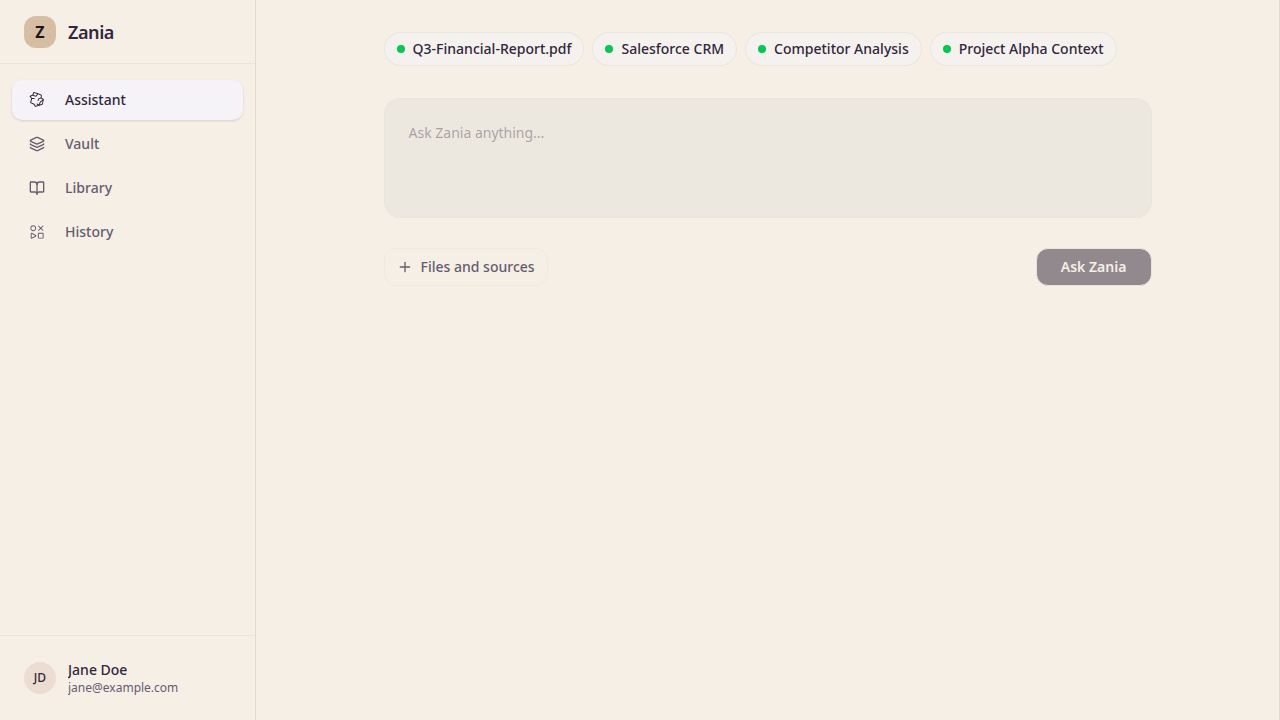
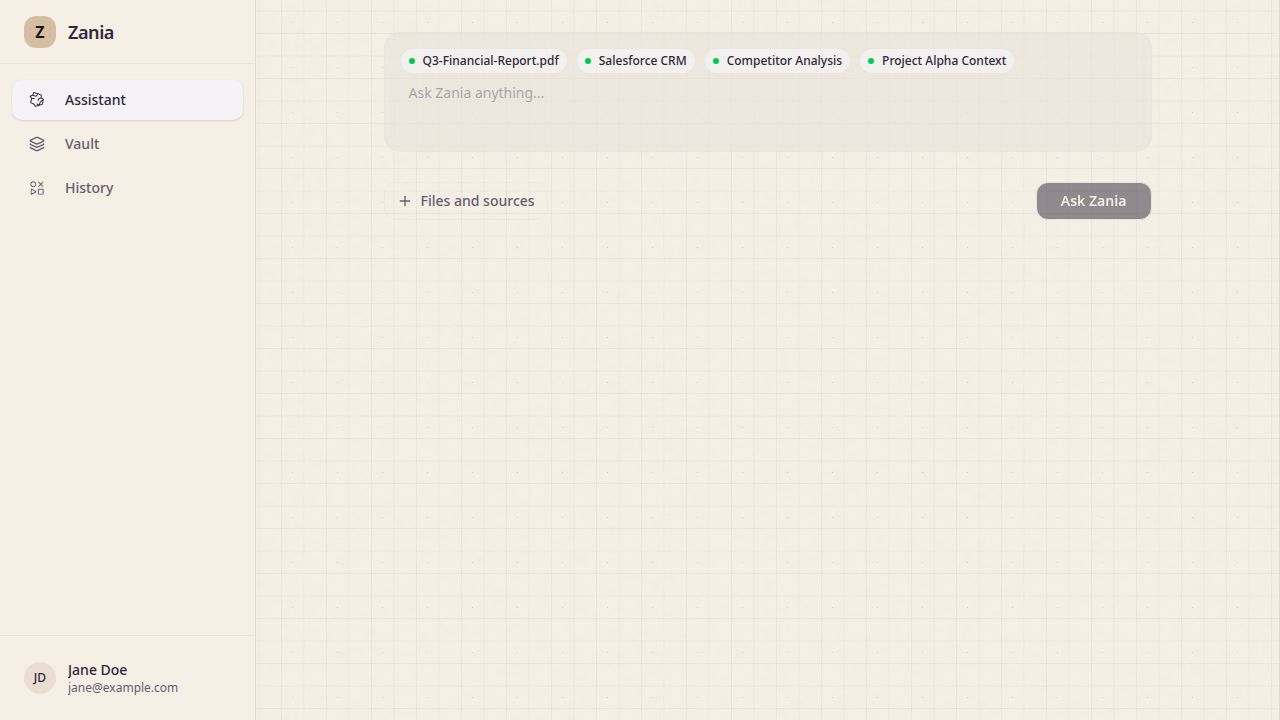
Update navigation and source display in the chat interface
Remove "Library" navigation item from sidebar and move active sources to the top-left corner of the textarea in AssistantHub.tsx.

Replit-Commit-Author: Agent
Replit-Commit-Session-Id: 5b161150-1cf0-4fc1-9128-a22fd3d76e81
Replit-Commit-Checkpoint-Type: full_checkpoint
Replit-Commit-Event-Id: 1c280b33-5646-4ca1-b334-14dd8229ea79
Replit-Commit-Screenshot-Url: https://storage.googleapis.com/screenshot-production-us-central1/c6d76fc1-605b-46ef-b0f8-529059969492/5b161150-1cf0-4fc1-9128-a22fd3d76e81/jJYnCfQ
Replit-Helium-Checkpoint-Created: true

diff --git a/client/src/components/chat/AssistantHub.tsx b/client/src/components/chat/AssistantHub.tsx
@@ -45,25 +45,6 @@ export function AssistantHub({ onStartChat }: { onStartChat: (query: string) => 
       className="flex flex-col items-center justify-center min-h-full w-full px-4 py-8"
     >
       <div className="w-full max-w-3xl space-y-8">
-        {/* Active Sources Pills */}
-        {activeSources.length > 0 && (
-          <motion.div
-            initial={{ opacity: 0, y: -10 }}
-            animate={{ opacity: 1, y: 0 }}
-            className="flex flex-wrap gap-2"
-          >
-            {activeSources.map((source) => (
-              <div
-                key={source.id}
-                className="flex items-center gap-2 px-3 py-1.5 rounded-full bg-secondary/50 border border-border/50 text-sm font-medium text-foreground"
-              >
-                <span className={cn("w-2 h-2 rounded-full", source.status === 'connected' ? "bg-green-500" : "bg-gray-400")} />
-                {source.name}
-              </div>
-            ))}
-          </motion.div>
-        )}
-
         {/* Main Input */}
         <motion.div
           initial={{ opacity: 0, y: 20 }}
@@ -71,13 +52,35 @@ export function AssistantHub({ onStartChat }: { onStartChat: (query: string) => 
           transition={{ delay: 0.1 }}
           className="space-y-6"
         >
-          <textarea
-            value={input}
-            onChange={(e) => setInput(e.target.value)}
-            onKeyDown={handleKeyDown}
-            placeholder="Ask Zania anything..."
-            className="w-full min-h-[120px] text-sm bg-muted/60 border border-border/30 rounded-xl p-6 focus:outline-none focus:ring-2 focus:ring-primary/50 resize-none font-sans text-foreground placeholder:text-sm placeholder:text-muted-foreground/50"
-          />
+          <div className="relative">
+            {/* Active Sources Pills - Top Left Corner */}
+            {activeSources.length > 0 && (
+              <motion.div
+                initial={{ opacity: 0, y: -10 }}
+                animate={{ opacity: 1, y: 0 }}
+                className="absolute top-4 left-4 flex flex-wrap gap-2 pointer-events-none z-10"
+              >
+                {activeSources.map((source) => (
+                  <div
+                    key={source.id}
+                    className="flex items-center gap-2 px-2 py-1 rounded-full bg-secondary/70 border border-border/50 text-xs font-medium text-foreground"
+                  >
+                    <span className={cn("w-1.5 h-1.5 rounded-full", source.status === 'connected' ? "bg-green-500" : "bg-gray-400")} />
+                    {source.name}
+                  </div>
+                ))}
+              </motion.div>
+            )}
+            
+            <textarea
+              value={input}
+              onChange={(e) => setInput(e.target.value)}
+              onKeyDown={handleKeyDown}
+              placeholder="Ask Zania anything..."
+              className="w-full min-h-[120px] text-sm bg-muted/60 border border-border/30 rounded-xl p-6 focus:outline-none focus:ring-2 focus:ring-primary/50 resize-none font-sans text-foreground placeholder:text-sm placeholder:text-muted-foreground/50"
+              style={{ paddingTop: activeSources.length > 0 ? '50px' : '24px' }}
+            />
+          </div>
 
           {/* Action Buttons */}
           <div className="flex flex-wrap gap-3 items-center">

diff --git a/client/src/pages/Home.tsx b/client/src/pages/Home.tsx
@@ -10,7 +10,7 @@ import { useStore } from '@/hooks/useStore';
 import Vault from '@/pages/Vault';
 import HistoryPage from '@/pages/History';
 import { Button } from '@/components/ui/button';
-import { Layers, BookOpen } from 'lucide-react';
+import { Layers } from 'lucide-react';
 import { AssistantIcon } from '@/components/icons/AssistantIcon';
 import { HistoryIcon } from '@/components/icons/HistoryIcon';
 import { cn } from '@/lib/utils';
@@ -20,7 +20,6 @@ function SidebarNav({ active, setActive }: { active: string, setActive: (id: str
   const navItems = [
     { id: 'assistant', label: 'Assistant', icon: AssistantIcon },
     { id: 'vault', label: 'Vault', icon: Layers },
-    { id: 'library', label: 'Library', icon: BookOpen },
     { id: 'history', label: 'History', icon: HistoryIcon },
   ];
 
